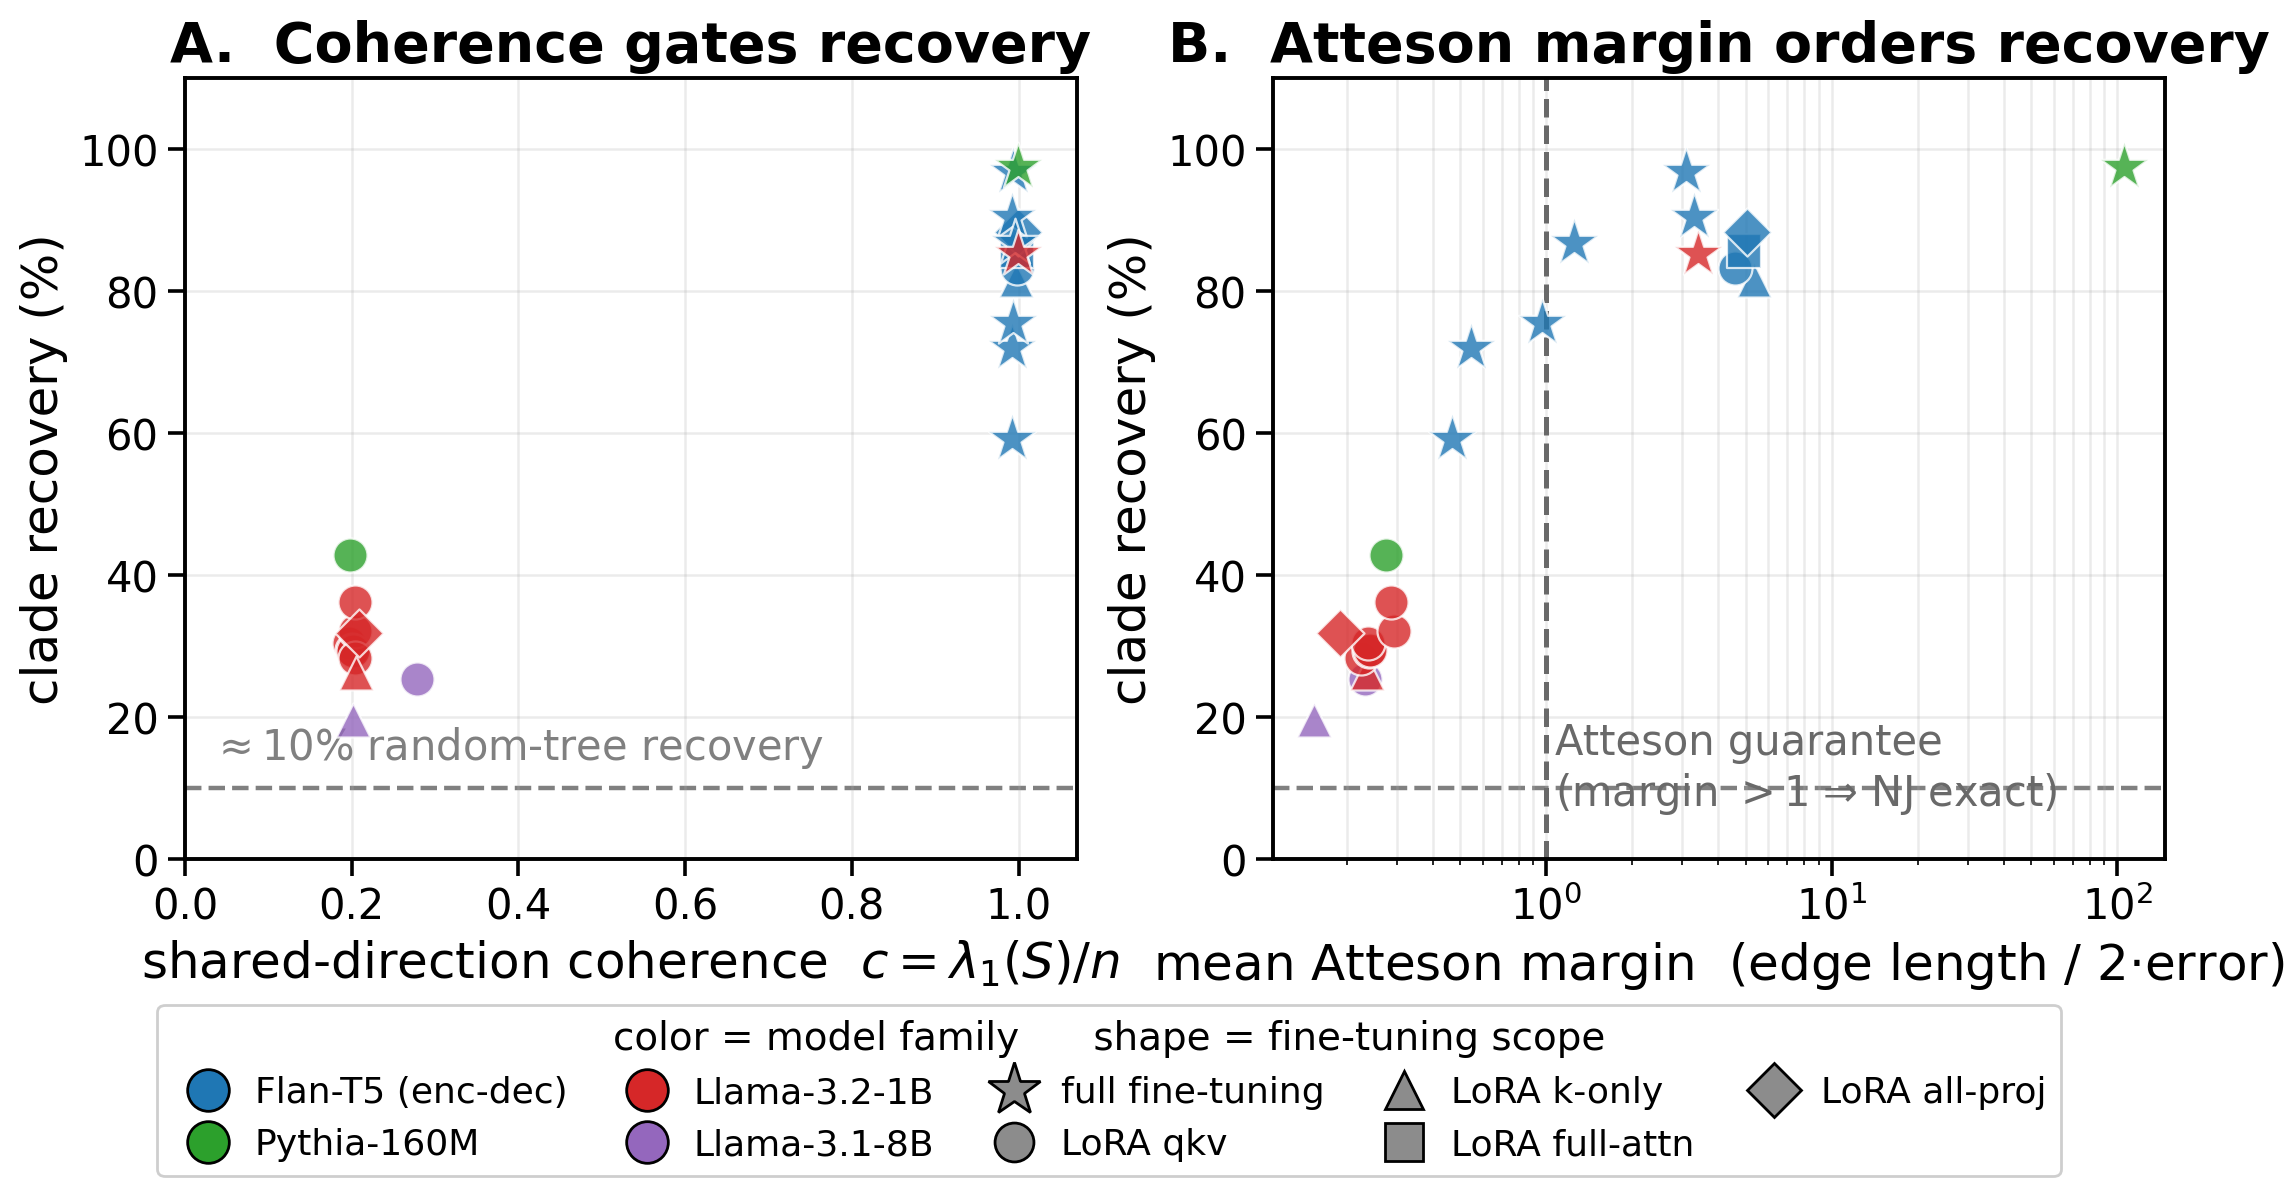
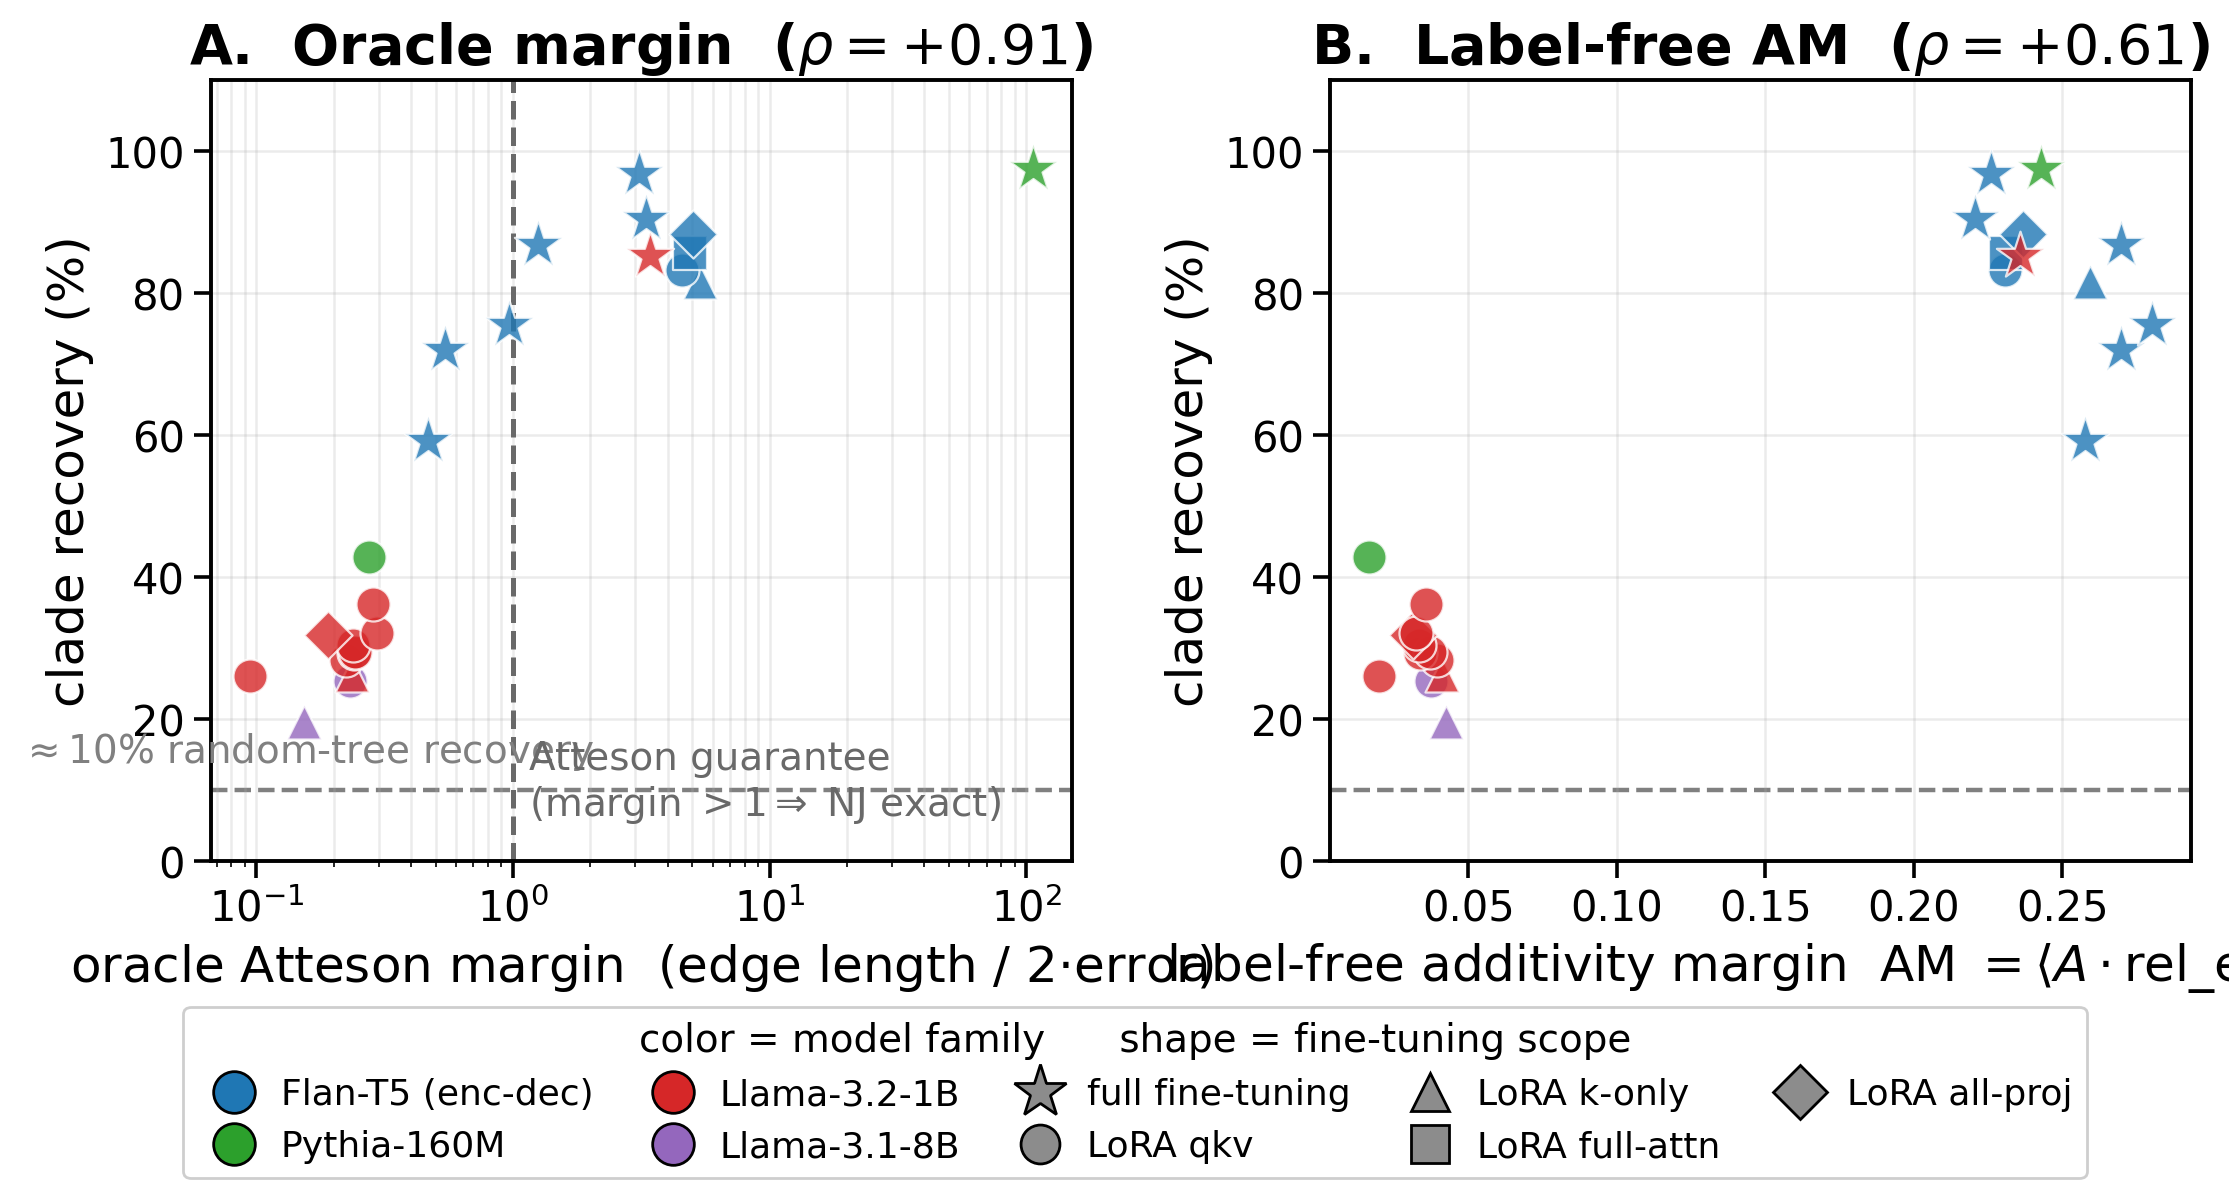
Fig 4 → oracle Atteson margin + label-free AM (drop coherence); remove Table 1, cite cosine refs; hero 2/3 split

diff --git a/paper_v2.tex b/paper_v2.tex
@@ -223,37 +223,17 @@ run, yielding a permutation $p$-value for each run. To combine evidence across t
 %% that's t he statistical basis for our method.
 
 
-\subsection{Distance Metric and Shared-Direction Coherence}
+\subsection{Distance Metric}
 \label{sec:framework:metric}
 
 One question we sought to answer is what distance (or similarity) metric should we use to compare layers of weights to one another.  We decided to use vector-based norms as opposed to matrix or array based norms for easier portability across architectures.  The distances we considered are  cosine, correlation, $\ell_1$ and $\ell_2$ (the latter of which was used in MoTHer~\citep{horwitz2024mother}).  The first two distances are bounded by 1 and so the distances are comparable across different layers.  The second two distances are unbounded, which can allow different magnitudes of weights to dominate the distance.
 
-We use cosine distance throughout: it is bounded and scale-invariant across layers, so no single high-magnitude tensor (e.g.\ the noisy layer norms) dominates, unlike the unbounded $\ell_1$/$\ell_2$.
-
-We select the distance metric using a bounded, scale-invariant summary of the updates---their shared-direction coherence $c=\lambda_1(S)/n$ (defined in \S\ref{sec:framework:theory}), the fraction of update energy along a single dominant direction, which later serves as our scope screen for recoverability. Coherence is a meaningful fraction only for a bounded, scale-invariant similarity. Table~\ref{tab:coherence} reports $c$ by metric over \texttt{branching\_v3}: cosine and correlation place nearly all update energy on one shared lineage direction (cosine highest), while the unbounded $\ell_1$/$\ell_2$ distances are magnitude-dominated and admit no valid decomposition. We therefore use cosine distance for the remainder of the paper, and read the same coherence off the cosine updates to predict \emph{which training conditions} admit topology recovery (\S\ref{sec:results:weighttree}, Fig.~\ref{fig:coherence_recovery}).
-
-\begin{table}[t]
-\centering
-\caption{Shared-direction coherence $c=\lambda_1(S)/n$ (mean over the 50 \texttt{branching\_v3} runs,
-  SD in parentheses) by candidate distance metric. $c$ is a valid shared-direction fraction in
-  $[1/n,1]$ only for a \emph{bounded} similarity: cosine and correlation concentrate almost all update
-  energy on one dominant lineage direction (cosine highest), whereas the unbounded $\ell_1$/$\ell_2$
-  distances are dominated by large-magnitude layers, so $S=\mathbf{1}-D$ admits no valid decomposition
-  ($\lambda_1/n\gg1$). A scale-invariant check (fraction of variance on the top classical-MDS axis)
-  gives the same ordering: cosine $0.58$, correlation $0.54$, $\ell_1$ $0.49$, $\ell_2$ $0.44$. We use
-  cosine distance throughout.}
-\label{tab:coherence}
-\begin{tabular}{lcc}
-\toprule
-Metric & Bounded & Coherence $c=\lambda_1/n$ \\
-\midrule
-Cosine       & yes & \textbf{0.992} (0.001) \\
-Correlation  & yes & 0.983 (0.002) \\
-$\ell_1$     & no  & $\gg 1$ (magnitude-dominated) \\
-$\ell_2$     & no  & $\gg 1$ (magnitude-dominated) \\
-\bottomrule
-\end{tabular}
-\end{table}
+We use cosine distance throughout: it is bounded and scale-invariant across layers, so no single
+high-magnitude tensor (e.g.\ the noisy layer norms) dominates, unlike the unbounded $\ell_1$/$\ell_2$.
+Cosine-based weight similarity is also the prevailing choice in recent model-provenance and
+fingerprinting work---human-readable weight fingerprints \citep{zeng2024huref}, behavioral provenance
+fingerprints \citep{behavioral2026provenance}, and independence testing between models
+\citep{zhu2025independence}---so our distances stay directly comparable to that literature.
 
 
 
@@ -351,8 +331,7 @@ non-additivity swamps the internal edges. Full fine-tuning follows a common opti
 lands in the first regime (AM high, recovery near the additive ceiling); a rank-$r$ adapter in a wide
 layer gives each node a near-orthogonal subspace, and in high ambient dimension independently trained
 updates are nearly orthogonal, so non-additivity dominates and AM collapses---the decoder-only LoRA
-``dead zone'' in which independently trained low-rank decoder updates are near-orthogonal. Shared-direction coherence $c=\lambda_1(\mathbf{1}-D)/n$
-measures the same common-mode strength and gates identically; we report both against recovery in
+``dead zone'' (Llama-8B and 1B LoRA). We report AM and the oracle margin against recovery in
 \S\ref{sec:results:weighttree}.
 
 
@@ -430,7 +409,8 @@ distribution.
 Sometimes model weights are unavailable, and provenance must be inferred from behavioral outputs alone. Recent work has shown that frontier model families cluster meaningfully in behavioral embedding space
 \citep{wu2026llmdna, yax2025phylolm}. We extend this line of work by probing 16 frontier models (GPT, Claude, Gemini, and open-weight families including Llama and Mistral) across four task types --- summarization, QA, classification, and translation --- using the same neighbor joining pipeline applied to pairwise sentence-embedding distances between model outputs. This design allows us to examine how much the recovered family structure depends
 on task choice, and whether aggregating across tasks recovers structure that
-single-task probes miss.
+single-task probes miss. We aggregate the per-prompt trees, within and across tasks, using the
+Billera--Holmes--Vogtmann (BHV) Fr\'echet (Sturm) mean in tree space (App.~\ref{app:blackbox}).
 
 
 % -----------------------------------------------------------------------
@@ -460,7 +440,7 @@ single-task probes miss.
 \toprule
 Leaves & $n$ & RF (SE) & FN (SE) & FP (SE) & Clade recov. & Refinement & \% sig \\
 \midrule
-\multicolumn{8}{l}{\textit{Encoder--decoder: Flan-T5-base (full FT), \texttt{branching\_v3}}} \\
+\multicolumn{8}{l}{\textit{Encoder--decoder: Flan-T5-base (full FT), tree sample}} \\
 5 & 12 & 0.58 (0.19) & 0.08 (0.08) & 0.50 (0.15) & 96\% & 92\% &   0\% \\
 6 & 12 & 1.75 (0.35) & 0.33 (0.19) & 1.42 (0.19) & 85\% & 75\% &  50\% \\
 7 & 16 & 2.62 (0.27) & 0.19 (0.14) & 2.44 (0.18) & 90\% & 88\% &  60\% \\
@@ -588,7 +568,7 @@ Variant & Trained layers & Fisher-$z$ $r$ & SD & $N$ & RF & FN \\
 \quad full\_attn       & 144 & $-0.671$ & 0.245 & 32 & 1.83 & 0.21 \\
 \quad full\_ft\_approx & 168 & $-0.687$ & 0.242 & 31 & 1.85 & 0.22 \\
 \multicolumn{7}{l}{\quad\textit{Full fine-tuning}} \\
-\quad branching\_v3    & all & $-0.802$ & 0.230 & 37 & 1.81 & 0.19 \\
+\quad Tree sample      & all & $-0.802$ & 0.230 & 37 & 1.81 & 0.19 \\
 \midrule
 \multicolumn{7}{l}{\textbf{Decoder-only: Pythia-160M} ($d=768$, matched to Flan)} \\
 \quad qkv (r8)         &  12 & $-0.350$ & 0.281 & 37 & 3.38 & 0.98 \\
@@ -617,31 +597,30 @@ full weight    & 282 tensors & \multicolumn{5}{l}{FN $0.33 \pm 0.19$ (reference)
     series.
   \item Diminishing returns past qkv (qkv $\approx$ full\_attn): the large gap to full FT reflects
     moving from rank-constrained to unconstrained updates, not adding more modules.
-  \item Across architectures the controlling variable is \emph{shared-direction coherence} $c$
-    (\S\ref{sec:framework:metric}), not the rank fraction $s=r/d$: topology recovery tracks $c$
-    (Fig.~\ref{fig:coherence_recovery}), which is bimodal---$c\approx0.99$ for the recovering
-    conditions (Flan, Pythia full FT, full-FT Llama-1B) versus $c\approx0.20$ for the diluted
-    low-rank decoder groups---while $s=r/d$ fails to separate them (e.g.\ Llama-1B qkv at
-    $s=1.6\!\times\!10^{-2}$ still recovers under a third of what Flan does at lower $s$).
+  \item What gates recovery is the additivity geometry neighbor-joining needs, not the rank fraction
+    $s=r/d$: recovery tracks the \emph{oracle Atteson margin} (edge length over twice the non-additivity
+    error; Fig.~\ref{fig:coherence_recovery}A, $\rho=+0.91$), which clears the guarantee threshold $1$
+    for the recovering conditions (Flan, Pythia full FT, full-FT Llama-1B) and falls below it for the
+    diluted low-rank decoder groups, whereas $s=r/d$ fails to separate them (e.g.\ Llama-1B qkv at
+    $s=1.6\!\times\!10^{-2}$ still recovers under a third of what Flan does at lower $s$). The label-free
+    proxy AM reproduces the split without the ground-truth tree (Fig.~\ref{fig:coherence_recovery}B).
 \end{itemize}
 
 \begin{figure}[t]
   \begin{center}
     \includegraphics[width=\linewidth]{\figpath/fig4_coherence_atteson.png}
   \end{center}
-  \caption{\textbf{What gates topology recovery.} \textbf{(A)} Clade recovery against shared-direction
-    coherence $c=\lambda_1(S)/n$ across all training conditions. Coherence is bimodal and gates
-    recovery: conditions at $c\approx0.99$ (Flan-T5 full FT and LoRA, Pythia-160M full FT, full-FT
-    Llama-3.2-1B) recover the topology, while the diluted low-rank decoder conditions (Llama-8B and 1B
-    LoRA) sit at $c\approx0.20$ and do not. A single threshold on $c$ separates the two groups; the rank
-    fraction $s=r/d$ does not (\S\ref{sec:framework:metric}). \textbf{(B)} Clade recovery against the
-    mean Atteson margin --- the fitted internal edge length divided by twice the non-additivity error,
-    so that neighbor-joining provably recovers a split once the margin exceeds $1$ (Atteson, 1999;
-    dashed line). The margin both separates the regimes and supplies the \emph{within}-regime gradient
-    that coherence cannot, since $c$ saturates near $0.99$ across the entire recovering cluster: rank
-    correlation with recovery is $\rho=+0.90$ for the margin versus $+0.77$ for coherence. Colour denotes
-    model family and marker shape the fine-tuning scope (star $=$ full fine-tuning, other shapes the LoRA
-    target set); full-FT Llama-3.2-1B is the decoder condition that clears the low-rank dead zone.}
+  \caption{\textbf{What gates topology recovery.} \textbf{(A)} Clade recovery against the \emph{oracle
+    Atteson margin}---the fitted internal edge length divided by twice the non-additivity error, so
+    neighbor-joining provably recovers a split once the margin exceeds $1$ (Atteson, 1999; dashed line).
+    Recovery is S-shaped in the margin (rank correlation $\rho=+0.91$): the recovering conditions
+    (Flan-T5 full FT and LoRA, Pythia-160M full FT, full-FT Llama-3.2-1B) clear the threshold, while the
+    diluted low-rank decoder conditions (Llama-8B and 1B LoRA) fall short. \textbf{(B)} The same recovery
+    against the \emph{label-free additivity margin} AM $=\langle A\cdot\mathrm{rel\_edge}\rangle$, the
+    computable proxy that needs no ground-truth tree; it cleanly gates dead from recovering
+    ($\rho=+0.61$). Colour denotes model family and marker shape the fine-tuning scope (star $=$ full
+    fine-tuning, other shapes the LoRA target set); full-FT Llama-3.2-1B is the decoder condition that
+    clears the low-rank dead zone.}
   \label{fig:coherence_recovery}
 \end{figure}
 
@@ -664,7 +643,7 @@ full weight    & 282 tensors & \multicolumn{5}{l}{FN $0.33 \pm 0.19$ (reference)
     cluster-robust SEs --- which is the only coefficient comparable across conditions (the raw
     $\beta$ inherits each group's output variance, so it is not):
     lora\_k\_only $-0.41$, lora\_qkv $-0.18$, lora\_full\_ft\_approx $-0.14$, lora\_full\_attn
-    $-0.12$, branching\_v3 (full FT) $-0.13$ (all $p<0.01$).
+    $-0.12$, tree sample (full FT) $-0.13$ (all $p<0.01$).
   \item Null control \texttt{no\_translation\_v2} (translation never trained) carries no usable
     signal --- its per-run association is dominated by whether each node can still translate at all
     (classification-trained nodes emit label tokens), so we treat it as a qualitative null
@@ -836,11 +815,48 @@ Base model: Flan-T5-base (250M parameters). Each node trained for 2,000 steps, l
 
 \section{Layer Variant Definitions}
 \label{app:layers}
-% enc_sak: encoder.block.{0-11}.layer.0.SelfAttention.k (12 tensors)
-% encoder_h: enc_sak + encoder.block.{0-11}.layer.0.layer_norm (24 tensors)
-% etc.
+Two families of variants appear in the paper. \emph{LayerTrace subsets} (Table~\ref{tab:layer_subsets})
+restrict the full-weight distance to a chosen set of tensors, testing which layers carry the lineage
+signal; they are defined on Flan-T5-base (12 encoder + 12 decoder blocks). \emph{LoRA variants}
+(Table~\ref{tab:lora_variants}) instead change which modules are fine-tuned, all at rank $r=8$,
+$\alpha=16$, dropout $0.05$, with adapters merged into the base weights before analysis.
 
-\TODO{Fill layer variant table.}
+\begin{table}[h]
+\caption{LayerTrace layer subsets (Flan-T5-base). ``SA.k'' is the self-attention key projection;
+``pre-attention LayerNorm'' is the \texttt{layer.0.layer\_norm} preceding self-attention. Percentages
+are of the full trained-tensor set. \texttt{low\_signal} is a negative control (the noisiest LayerNorms).}
+\label{tab:layer_subsets}
+\centering
+\begin{tabular}{lll r}
+\toprule
+Variant & Tensors included & Count & \% \\
+\midrule
+\texttt{full}        & all trained tensors                                   & ---  & 100 \\
+\texttt{high\_signal}& SA.k $+$ pre-attention LayerNorm (encoder $+$ decoder) & 48   & $\sim$17 \\
+\texttt{sak}         & SA.k only (encoder $+$ decoder)                       & 24   & $\sim$8.5 \\
+\texttt{encoder\_h}  & encoder SA.k $+$ encoder pre-attention LayerNorm      & 24   & $\sim$8.5 \\
+\texttt{enc\_sak}    & encoder SA.k only                                     & 12   & $\sim$4 \\
+\texttt{low\_signal} & post-FFN / final-block LayerNorms (control)           & 36   & --- \\
+\bottomrule
+\end{tabular}
+\end{table}
+
+\begin{table}[h]
+\caption{LoRA target-module variants (Flan-T5-base, $r=8$, $\alpha=16$, dropout $0.05$). Modules:
+$q,k,v,o$ = attention query/key/value/output projections; $w_i,w_o$ = FFN input/output projections.}
+\label{tab:lora_variants}
+\centering
+\begin{tabular}{ll r r}
+\toprule
+Variant & Target modules & Trainable params & \% of model \\
+\midrule
+\texttt{lora\_k\_only}        & $k$                       & $\sim$98K  & 0.04 \\
+\texttt{lora\_qkv}            & $q,k,v$                   & $\sim$294K & 0.12 \\
+\texttt{lora\_full\_attn}     & $q,k,v,o$                 & $\sim$393K & 0.16 \\
+\texttt{lora\_full\_ft\_approx}& $q,k,v,o,w_i,w_o$        & $\sim$2.1M & $\sim$0.87 \\
+\bottomrule
+\end{tabular}
+\end{table}
 
 \section{Null Distribution Construction}
 \label{app:null}
@@ -950,7 +966,7 @@ lora\_k\_only          & $-0.19$  & $-0.0004$ & $-0.41$ & $5\!\times\!10^{-29}$ 
 lora\_qkv              & $-16.6$  & $-0.024$  & $-0.18$ & $2\!\times\!10^{-6}$ \\
 lora\_full\_attn       & $-32.0$  & $-0.027$  & $-0.12$ & $0.008$ \\
 lora\_full\_ft\_approx & $-52.2$  & $-0.031$  & $-0.14$ & $0.007$ \\
-branching\_v3 (full FT)& $-7.40$  & $-0.019$  & $-0.13$ & $0.002$ \\
+Tree sample (full FT)  & $-7.40$  & $-0.019$  & $-0.13$ & $0.002$ \\
 \midrule
 \multicolumn{5}{l}{\textit{Llama-3.1-8B (decoder-only)}} \\
 k\_only (translation)  & $-0.020$ & $-0.0032$ & $-0.21$ & $2\!\times\!10^{-9}$ \\
@@ -994,7 +1010,7 @@ associations underlying it are shown per condition in Fig.~\ref{fig:regression_d
 \label{app:llama}
 
 We include decoder-only Llama models (3.1-8B, 3.2-1B-Instruct) as a robustness check at frontier
-scale. All groups are cloned from the \texttt{branching\_v3} topologies (identical trees, so RF is
+scale. All groups are cloned from the tree-sample topologies (identical trees, so RF is
 directly comparable to Table~\ref{tab:rf_by_leaves}) and fine-tuned with LoRA at rank $r=8$;
 analysis uses \textsc{trained\_only=1} and \texttt{--min-leaves 4}.
 
